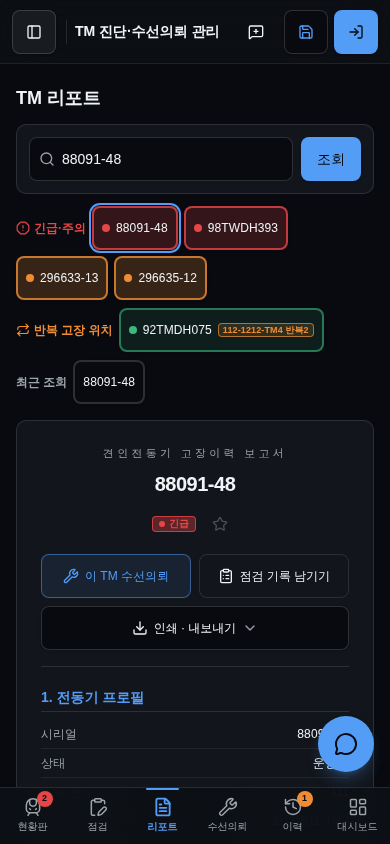
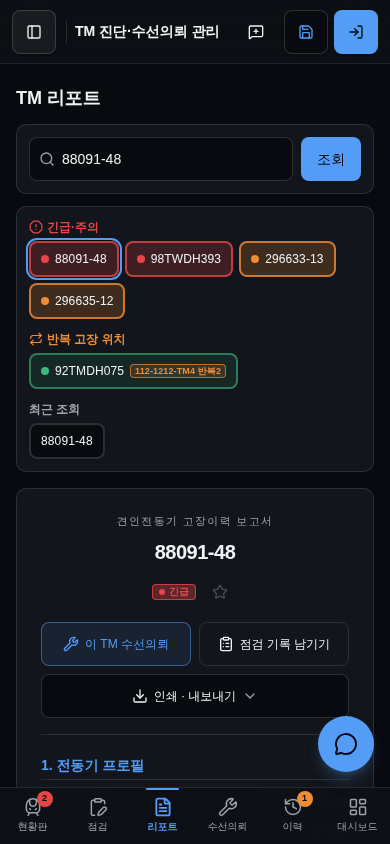
작업 기록: TM 리포트 칩 줄맞춤
Claude-Session: https://claude.ai/code/session_013MqecRsxRZ5DKizqo8ERr9

diff --git a/migration-data/README.md b/migration-data/README.md
@@ -1763,6 +1763,9 @@ workspace `GS8VAndim2d3OBu4TcTX` = "권휘진's Lovable")에 원본 데이터를
   - `migration-data/발표_시연대본_2026-10-23.md`: 5분 순서(오늘 탭 → 현황판 → 점검 입력 기준 밖 경고 → 수명 예측 → 챗봇 6문장 → 장치 확장),
     지축 대비 표, 예상 질문 답(점검값은 '초기 점검값'으로 소개, 실측 결과라 하지 말 것), 리허설 체크리스트.
   - 검증: 단위 278, q3·q500·sim·multi·fuzz 0 실패, facts 0, 21개 라우트 휴대폰·PC 오류·넘침 0.
+- **TM 리포트 바로가기 칩 줄맞춤 (tm-cbm commit `2368026`)**: 사용자 "줄 간격 이상하지 않냐". 긴급·주의/반복 고장 위치/최근 조회 칩 줄이
+  이름표 옆에서 들쭉날쭉 줄바꿈되던 것 → 이름표 한 칸(PC 7rem) + 칩 한 칸 그리드, 휴대폰은 이름표 위·칩 아래, 칩 높이 통일, 한 상자로 묶음.
+  보고서 제목 '견 인 전 동 기 …' 넓은 자간(0.3em) → 0.12em.
 - **TM 리포트·고장 이력 정돈 (tm-cbm commit `4871751`)**: 사용자 "그렇게 해서 난잡하지 않게". 남은 두 곳 점검 결과에 따름.
   - TM 리포트 머리 버튼 10개(즐겨찾기·인쇄·PDF·HWP·DOCX·QR 라벨·수선의뢰·상태 점검·링크로·텍스트 요약으로) →
     **3개: 이 TM 수선의뢰 · 점검 기록 남기기(입력 창 바로) · 인쇄·내보내기 메뉴**(보고서: 인쇄·PDF·HWP·DOCX / QR: 라벨 인쇄·리포트 링크·텍스트 요약). 즐겨찾기는 등급 옆 별.
